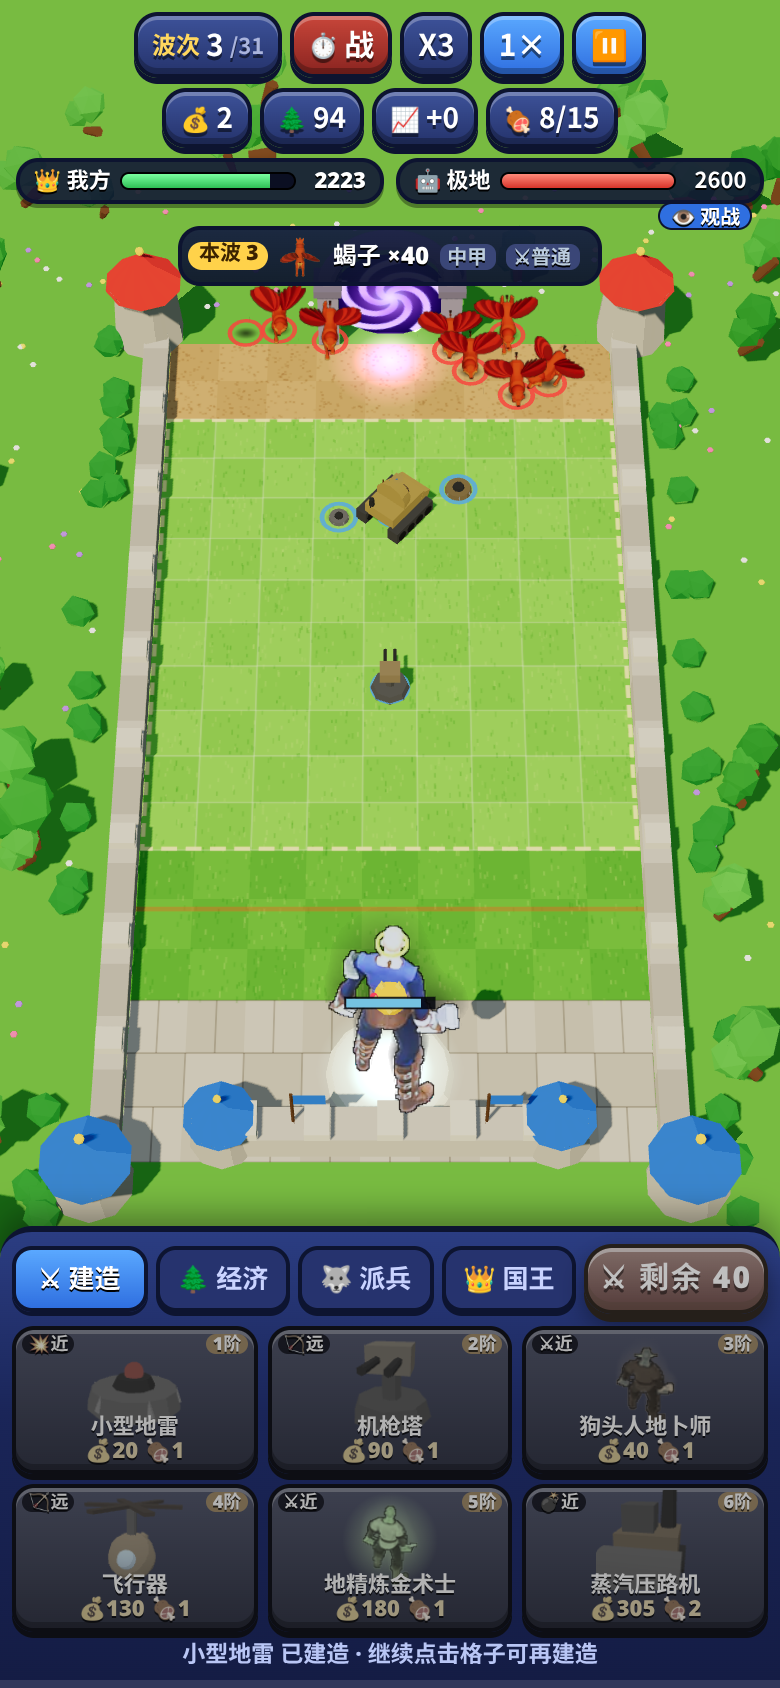
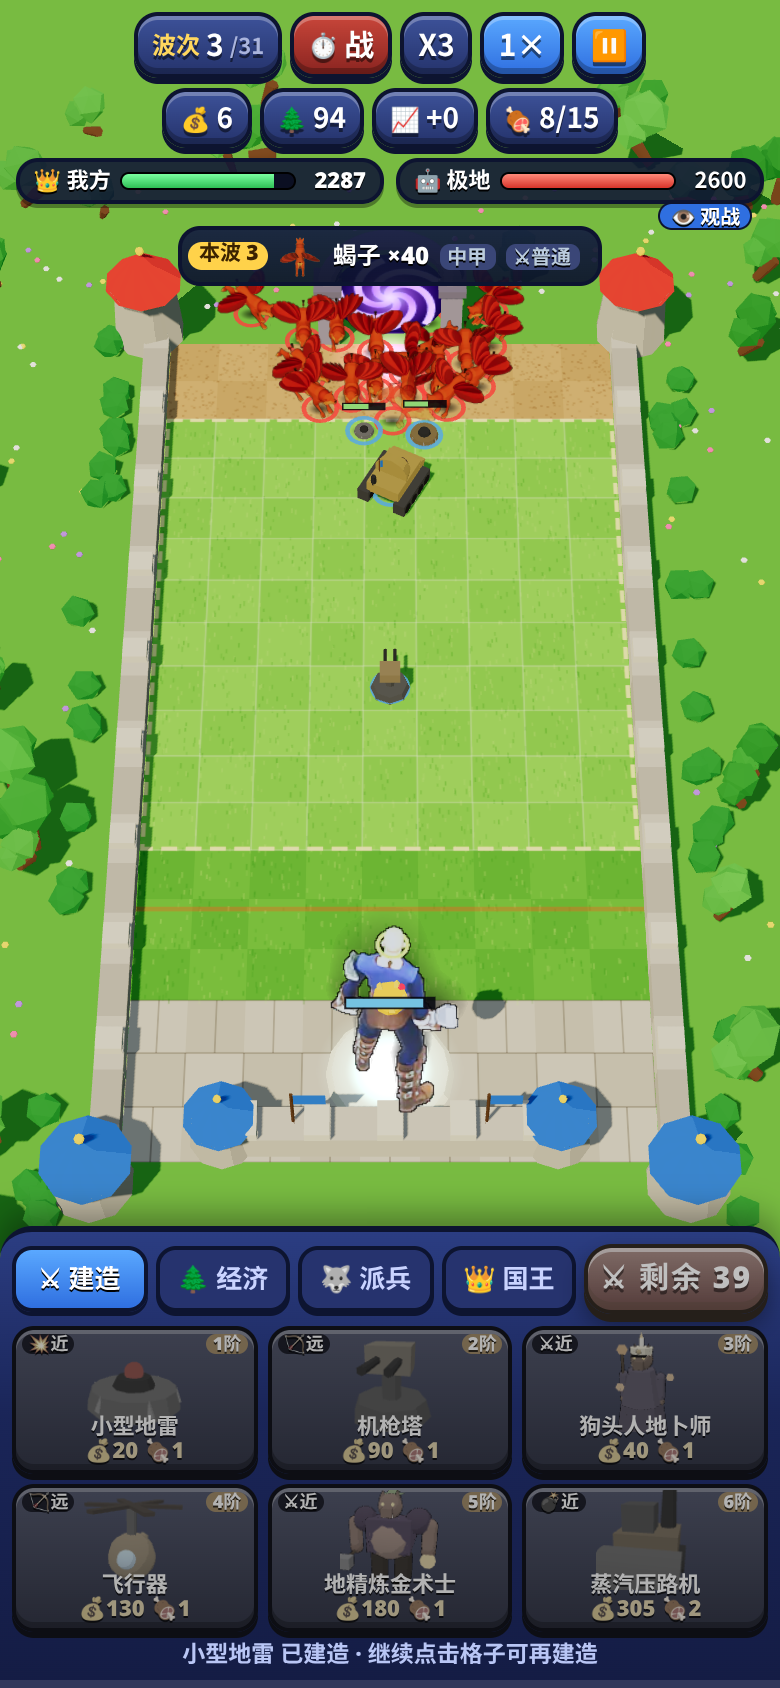
Model remake: Goblin (kobold geomancer, goblin alchemist on ogre, iron-golem blaster; mines/turret/robots/copters/roller/tank keep matching procedural machines)

diff --git a/toonkit.js b/toonkit.js
@@ -150,7 +150,7 @@ PLANS.humanoid=(B,o)=>{const h=o.h||1,bw=o.bw||1,sk=o.skin??0xe8b88a,cl=o.cloth?
       if(o.arms==='claw')for(const dx of [-0.025,0,0.025])B.add(n,'cone',[0.015*h,0.09*h,4],[dx*h,-aL-0.04*h,0.03*h],0xf0e8d0,{r:[2.6,0,0]});}
     if(o.pads)B.add(n,'sph',[0.085*h*bw,8,6,0,Math.PI*2,0,Math.PI/2],[s*0.01,0.02,0],o.padC??mt,{s:[1.1,0.8,1.1]});
     if(o.spikes&&o.pads)B.add(n,'cone',[0.025*h,0.1*h,4],[s*0.02,0.09*h,0],0xd8d8d8);}
-  B.meta.armSpread=o.armSpread??0.08;B.meta.hover=o.legs==='none'||!!o.lift;B.meta.stride=o.stride;
+  B.meta.armSpread=o.armSpread??0.08;if(o.armsIdle!=null)B.meta.armsIdle=o.armsIdle;B.meta.hover=o.legs==='none'||!!o.lift;B.meta.stride=o.stride;
   const hy=-aL;// hand position in arm space
   weapon(B,'armR',o.weapon,o,h,hy);weapon(B,'armL',o.off,o,h,hy,true);
   // extras
@@ -217,6 +217,8 @@ const EXTRA={
   blindfold:(B,o,h,d)=>{const hs=h*(o.headS||1);B.add('head','cyl',[0.108*hs,0.108*hs,0.035*hs,10],[0,0.12*hs,0],d.col??0x2a8a3a);},
   tentacles:(B,o,h,d)=>{const hs=h*(o.headS||1);for(let i=0;i<5;i++){const x=(i-2)*0.035*hs;B.add('head','cone',[0.022*hs,0.16*hs,4],[x,0.0,0.11*hs],d.col??o.headC??0x5a3a6a,{r:[Math.PI-0.25+Math.abs(i-2)*0.05,0,(i-2)*0.15]});}},
   head2:(B,o,h,d)=>{const hs=h*(o.headS||1),c=d.col??o.headC??o.skin??0x6a8a4a;for(const s of[-1,1]){B.add('neck','cap',[0.05*h,0.14*h],[s*0.09*h,0.1*h,0.1*h],c,{r:[0.8,0,-s*0.5]}).add('neck','box',[0.11*hs,0.08*hs,0.17*hs],[s*0.16*h,0.2*h,0.2*h],c).add('neck','sph',[0.018*hs],[s*0.16*h+0.04*hs,0.23*h,0.27*h],o.eye??0xffd02a,{m:'e'}).add('neck','sph',[0.018*hs],[s*0.16*h-0.04*hs,0.23*h,0.27*h],o.eye??0xffd02a,{m:'e'});}},
+  candle:(B,o,h,d)=>{const hs=h*(o.headS||1);B.add('head','cyl',[0.025*hs,0.025*hs,0.08*hs,6],[0,0.27*hs,0],0xf0e8d0).add('head','cone',[0.02*hs,0.06*hs,5],[0,0.34*hs,0],0xffc84a,{m:'e'});},
+  goblinrider:(B,o,h,d)=>{const y=d.tH*1.0;B.add('torso','rbox',[0.13*h,0.13*h,0.1*h,0.3],[0,y+0.08*h,-d.tD*0.35],d.col??0x6a4a8a).add('torso','sph',[0.07*h],[0,y+0.2*h,-d.tD*0.35],0x7ab84a).add('torso','cone',[0.02*h,0.09*h,4],[0.08*h,y+0.21*h,-d.tD*0.35],0x7ab84a,{r:[0,0,-1.3]}).add('torso','cone',[0.02*h,0.09*h,4],[-0.08*h,y+0.21*h,-d.tD*0.35],0x7ab84a,{r:[0,0,1.3]});},
   bones:(B,o,h,d)=>{for(let i=0;i<3;i++)B.add('torso','box',[d.tW*0.9,0.025*h,0.03*h],[0,d.tH*(0.35+i*0.18),d.tD*0.5],0xe8e0c8);},
 };
 function wings(B,o,h,d,kind){const c=d.col??o.wingC??(kind==='bat'?0x5a3a5a:kind==='energy'?0x9ad8ff:0xf0f0f0);const sp=o.wingSpan||1;

diff --git a/toonrecipes.js b/toonrecipes.js
@@ -144,3 +144,7 @@ R('h01H',{k:0.8,plan:'flyer',skin:0x8a7ad8,skin2:0xd8c8ff,wing:'bird',wingC:0xff
 R('h01G',{k:1.15,plan:'flyer',skin:0x4a8a4a,skin2:0xc8d890,wingC:0x2a5a3a,eye:0xffe04a,neckLen:0.5,tailLen:0.55,wingSpan:1.15,alt:0.4,atk:'bite',extras:['head2','rings:0x8ad8ff','spikes:0xd8e8a0'],trail:0x8ad8ff});
 R('h01K',{k:1.2,plan:'quad',skin:0x6a4a2a,skin2:0x9a7a4a,headType:'bear',eye:0xffe04a,pawC:0x2a1a10,legLen:0.32,bodyLen:0.74,bodyH:0.36,bw:1.3,tailLen:0.08,claws:true,hump:true,horns:true,hornC:0xd8c8a0,saddle:0x3a6a3a,spikes:true,spikeC:0xd8c8a0,atk:'claw',extras:['aura:0x8aff6a']});
 R('h01L',{k:1.3,h:1.2,bw:1.55,torso:'rock',head:'default',headS:0.9,skin:0x9a8a6a,torsoC:0x8a7a60,legC:0x6a5a40,armC:0x8a7a60,arms:'rock',bootC:0x5a4a30,glow:0x8aff6a,weapon:'hammer',wood:0x6a4a2a,wMetal:0x6a4a2a,atk:'slam',extras:['spikes:0x4a8a3a','beard:0x4a8a3a']});
+// ===================== 地精 Goblin：狗头人地卜师、地精炼金术士、铁傀儡爆破手（地雷/机枪塔/钻头机器人/发条机器人/飞行器/直升机/压路机/突击坦克保留相符的程序化机械模型） =====================
+R('h0AE',{k:0.88,h:0.85,bw:1.05,torso:'robe',head:'beast',headC:0x9a6a4a,skin:0x9a6a4a,torsoC:0x6a5a8a,eye:0xffd02a,helm:'cap',capC:0xe8d8a0,weapon:'staff',wood:0x6a4a2a,glow:0xffa02a,atk:'cast',extras:['tail:0x9a6a4a','candle','orbit:0xffb04a']});
+R('h0AL',{k:1.05,h:1.08,bw:1.45,torso:'brute',head:'beast',headC:0xb8785a,skin:0xb8785a,torsoC:0x6a4a8a,legC:0x4a3a2a,sleeve:0xb8785a,handC:0xa8684a,eye:0xffe04a,weapon:'hammer',wood:0x6a4a2a,wMetal:0x8a8a90,off:'orb',glow:0xffd04a,atk:'slam',extras:['tusks','goblinrider','tanks:0xffd04a','belly:0xc8886a']});
+R('h0AO',{k:1.02,h:1.15,bw:1.5,torso:'brute',head:'robot',legs:'robot',arms:'robot',metal:0x7a7a84,torsoC:0x6a6a74,eye:0xff8a2a,core:0xff8a2a,weapon:'glowfist',off:'glowfist',glow:0xff7a2a,pads:true,padC:0x5a5a64,atk:'slam',extras:['chest:0xff7a2a','jets','spikes:0x9a9aa4']});

diff --git a/index.html b/index.html
@@ -10,9 +10,9 @@
 <link rel="manifest" href="manifest.webmanifest">
 <link rel="icon" type="image/png" href="icons/favicon-32.png">
 <link rel="apple-touch-icon" href="icons/apple-touch-icon.png">
-<link rel="stylesheet" href="style.css?v=12">
-<link rel="stylesheet" href="td.css?v=12">
-<link rel="stylesheet" href="lt.css?v=12">
+<link rel="stylesheet" href="style.css?v=13">
+<link rel="stylesheet" href="td.css?v=13">
+<link rel="stylesheet" href="lt.css?v=13">
 </head>
 <body class="td lt">
 <canvas id="cv"></canvas>
@@ -75,8 +75,8 @@
 </div>
 <div id="showTitle" class="hidden"></div>
 <script src="audio.js?v=1"></script>
-<script src="lt_core.js?v=12"></script>
+<script src="lt_core.js?v=13"></script>
 <script type="importmap">{"imports":{"three":"./lib/three.module.min.js","three/addons/":"./lib/addons/"}}</script>
-<script type="module" src="lt.js?v=12"></script>
+<script type="module" src="lt.js?v=13"></script>
 </body>
 </html>

diff --git a/lt.js b/lt.js
@@ -3,8 +3,8 @@ import * as THREE from 'three';
 import {SPR_UNITS,SPR_K,SPR_V} from './sprdata.js';
 import {MODELS,modelOf} from './models.js';
 import {ABZ as ABZ_} from './abil_zh.js';
-import {initTK,buildTK,animTK} from './toonkit.js?v=12';
-import {TKR} from './toonrecipes.js?v=12';
+import {initTK,buildTK,animTK} from './toonkit.js?v=13';
+import {TKR} from './toonrecipes.js?v=13';
 const LT=window.LT,S=SFX.S,$=id=>document.getElementById(id);
 const Q=location.search;const DEBUG=/[?&]debug/.test(Q);const SHOWCASE=(Q.match(/[?&]showcase=([^&]+)/)||[])[1];
 const W=LT.W,H=LT.H,W2=W/2,H2=H/2;const B=LT.BUILD;

diff --git a/data/model_audit.md b/data/model_audit.md
@@ -33,7 +33,7 @@
 | Marine 海洋 | 14 | 1.43 | 0 | 10 |
 | Arctic 极地 | 12 | 2.00 | 2 | 12 |
 | Elf 精灵 | 13 | 1.85 | 2 | 13 |
-| Goblin 地精 | 13 | 1.15 | 0 | 0 |
+| Goblin 地精 | 13 | 1.15 | 0 | 3 |
 | Paladin 圣骑士 | 12 | 1.25 | 0 | 0 |
 | Orc 兽人 | 13 | 1.54 | 2 | 13 |
 | Undead 亡灵 | 13 | 1.31 | 1 | 0 |
@@ -280,12 +280,12 @@
 | h0AU | Ultra Land Mine 超级地雷 | GoblinLandMine | 程序化 mine | ✅ 基本相符 | 保留，后续统一换 ToonKit 时顺带做 |
 | h0AB | Machine Turret 机枪塔 | GoblinMobileTurret | 程序化 turret | ✅ 基本相符 | 保留，后续统一换 ToonKit 时顺带做 |
 | h0AA | Machine Robot 机器人 | GoblinDrillbot3000_A_005 | 程序化 robot | ✅ 基本相符 | 保留，后续统一换 ToonKit 时顺带做 |
-| h0AE | Geomancer 狗头人地卜师 | KoboldGeomancer | 精灵 gremlin | ⚠ 部分不符 | ToonKit 程序化重做（按 WC3 轮廓/配色） |
+| h0AE | Geomancer 狗头人地卜师 | KoboldGeomancer | 精灵 gremlin | ⚠ 部分不符 | **已重做**：ToonKit 程序化卡通模型（humanoid） |
 | h0AF | Clockwreck 发条机器人 | HeroTinkerRobot | 程序化 robot | ✅ 基本相符 | 保留，后续统一换 ToonKit 时顺带做 |
 | h0AH | Flying Machine 飞行器 | Gyrocopter_V1 | 程序化 gyro | ✅ 基本相符 | 保留，后续统一换 ToonKit 时顺带做 |
 | h0AJ | Helicopter 直升机 | Minicopter | 程序化 copter | ✅ 基本相符 | 保留，后续统一换 ToonKit 时顺带做 |
-| h0AL | Goblin Alchemist 地精炼金术士 | HeroGoblinAlchemist | 精灵 goblin | ⚠ 部分不符 | ToonKit 程序化重做（按 WC3 轮廓/配色） |
-| h0AO | Goblin Blaster 地精爆破手 | IronGolem | 精灵 stoneGolem | ✅ 基本相符 | 保留，后续统一换 ToonKit 时顺带做 |
+| h0AL | Goblin Alchemist 地精炼金术士 | HeroGoblinAlchemist | 精灵 goblin | ⚠ 部分不符 | **已重做**：ToonKit 程序化卡通模型（humanoid） |
+| h0AO | Goblin Blaster 地精爆破手 | IronGolem | 精灵 stoneGolem | ✅ 基本相符 | **已重做**：ToonKit 程序化卡通模型（humanoid） |
 | h0AR | Steamroller 蒸汽压路机 | GoblinSteamRoller | 程序化 roller | ✅ 基本相符 | 保留，后续统一换 ToonKit 时顺带做 |
 | h0AQ | Assault Tank 突击坦克 | GoblinAssaultTank | 程序化 tank | ✅ 基本相符 | 保留，后续统一换 ToonKit 时顺带做 |
 
